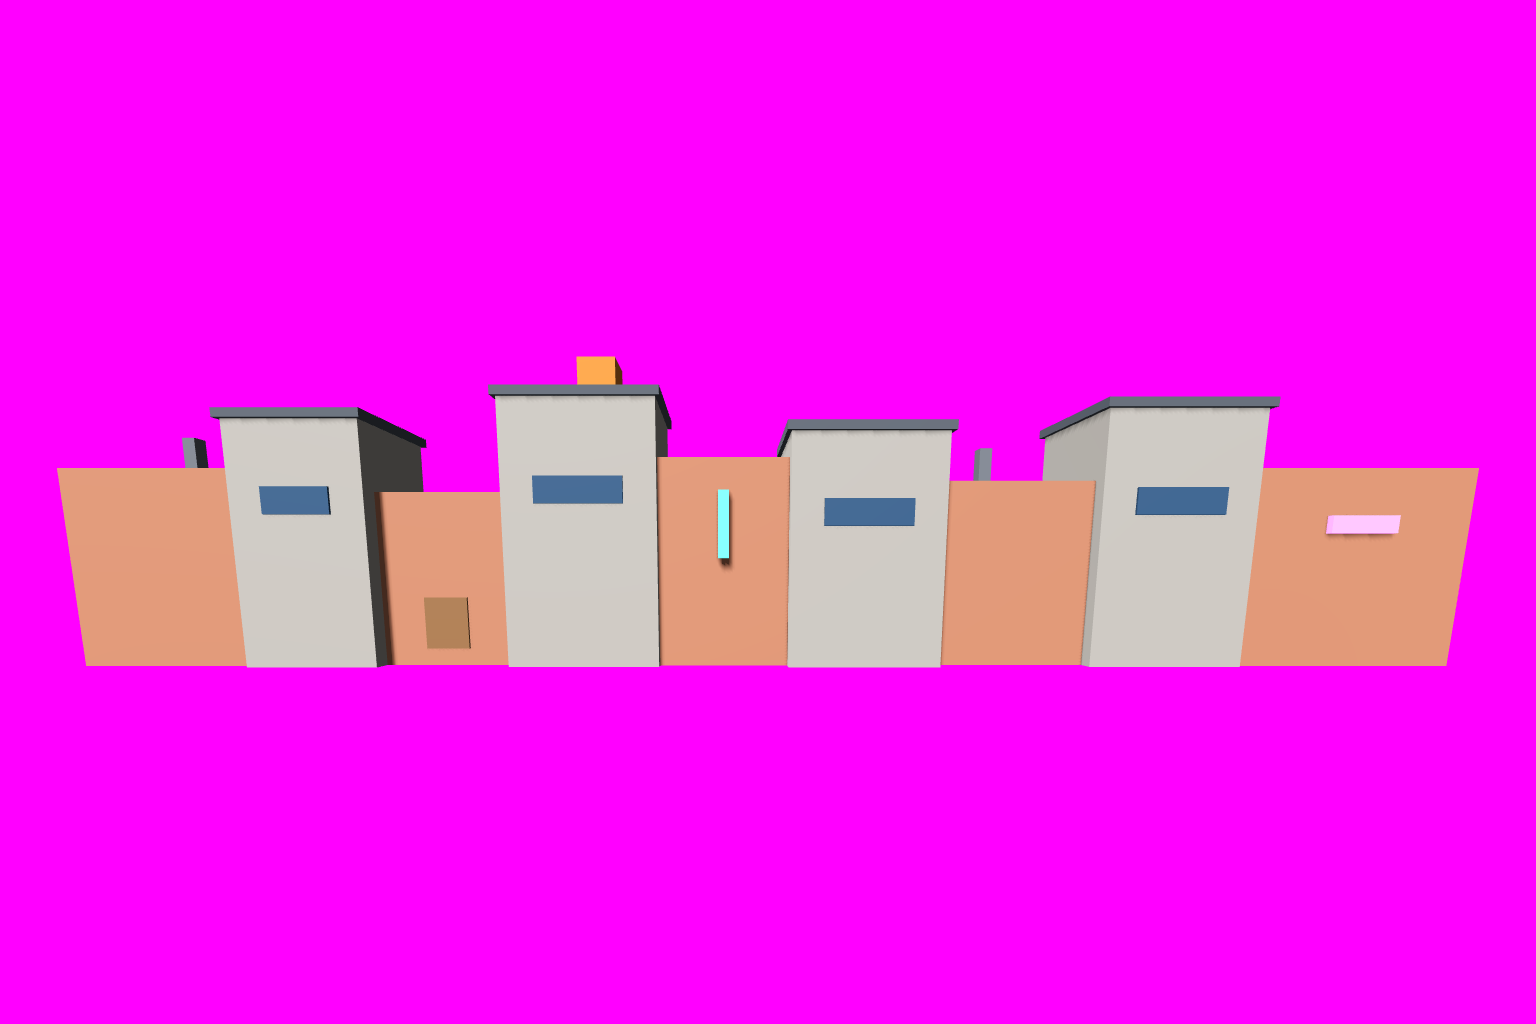
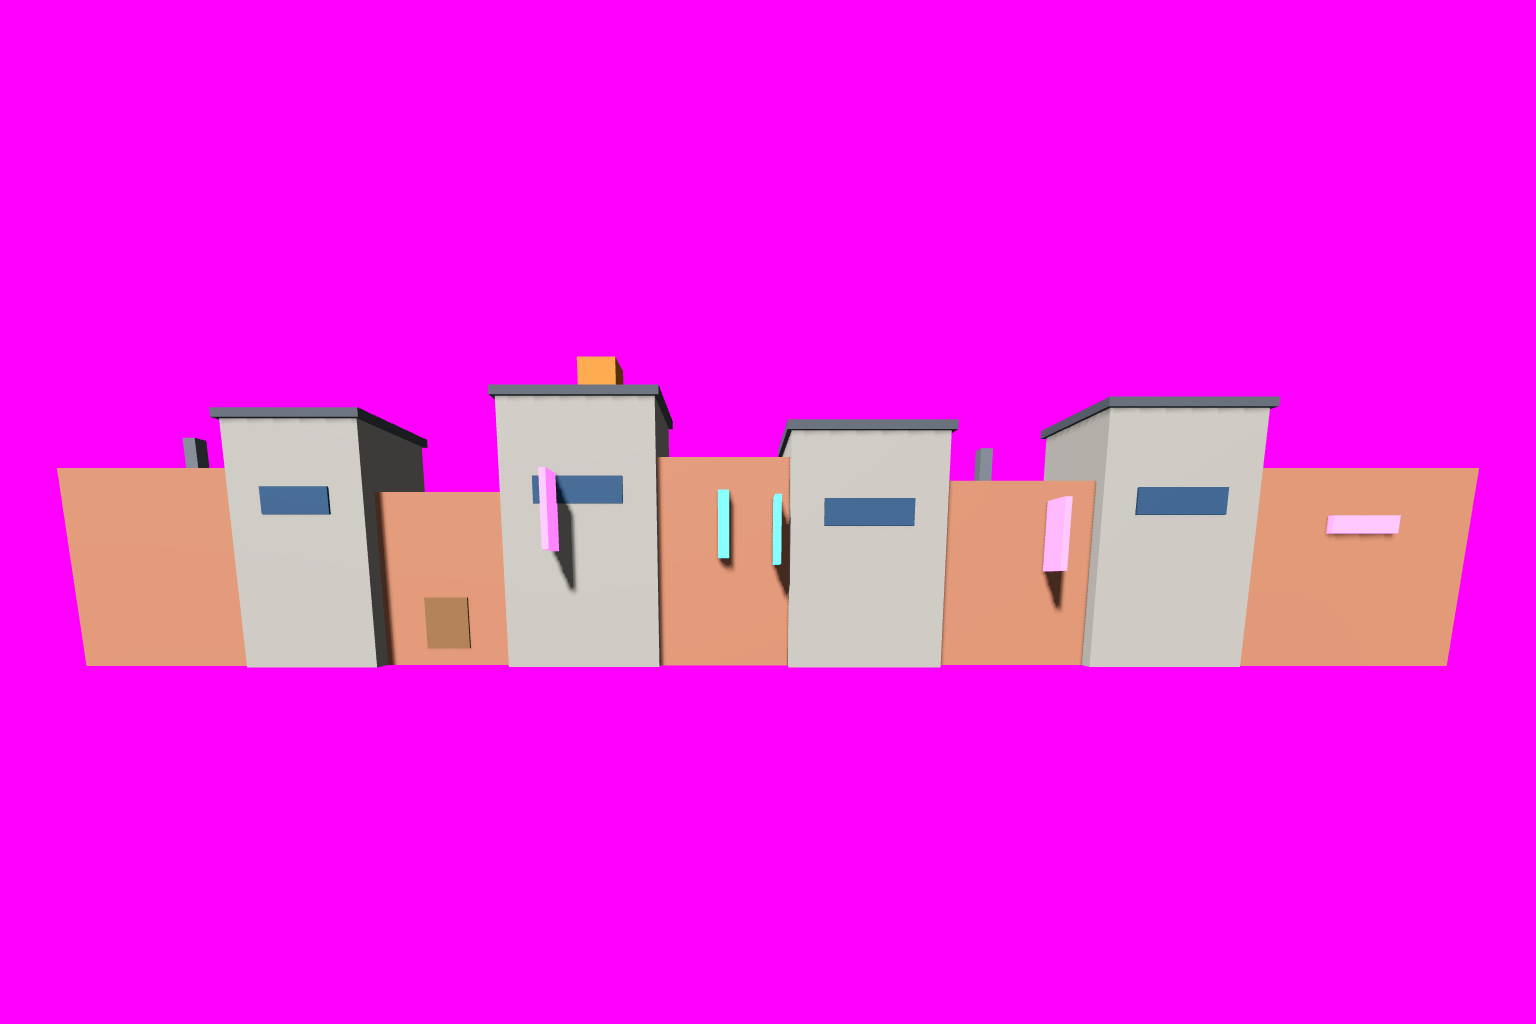
続編：b0_backrow を夜の歓楽街の裏通りとして発注し直し（突き出す縦の看板の箱3本、下絵を撮り直し、STYLE BASE を発注票の共通部分に）
Claude-Session: https://claude.ai/code/session_01U4ZkdGpEQEMDJoCjydzQGa

Changed region(s): [[0.6562, 0.4688, 0.7188, 0.5938], [0.4688, 0.4688, 0.5312, 0.5938], [0.3438, 0.4375, 0.375, 0.5938]]

diff --git a/sequel/HANDOFF.md b/sequel/HANDOFF.md
@@ -18,7 +18,7 @@
 - 地面（2026-11-05）：外部AIの素材2枚を `assets/ground/`（`cobble.png`＝車道の石畳 2.5m角、`slab.png`＝歩道の敷石 2m角）に入れ、`_build_floor` の単色の板を置き換えた（`_ground`、繰り返し・ミップマップ）。継ぎ目は端の8画素だけなじませた（中は元のまま。元絵は保存していない＝受け取りの添付が元）。明るさは `FLOOR_DIM`＝0.5（素材の色×0.5）。線路は真鍮色の細い線（幅6cm）。
   - 濡れた路面：`tools/make_glints.py` が、塗った建物の絵の明るく色のある塊（看板・灯り・窓）を拾い、下絵のカメラから建物の正面へ逆に投影して x・高さ・色を `assets/ground/glints.json` に出す（今は32本）。ゲームは `glint.gdshader`（加算）で、その色の筋を地面に寝かせて足す。筋は「光の真下 → カメラの足元」の線に沿う（本物の映り込みと同じ）ので画面ではほぼ縦になり、カメラが動くとずれる。石の目地は映りにくい。建物の絵を描き直したら `python3 -I sequel/tools/make_glints.py` を流し直す。
 - 足元と奥の地面（2026-11-05）：塗った絵の部品（箱への投影）は日光の影を落とさない（足元の黒い帯の対策）。代わりに地面に接する箱の前へ、薄い暗がりの板（`foot_shade.gdshader`、壁際から1.6mで薄れる）。奥の地面（z −6.5〜−62）は `far_ground.gdshader`：手前は暗く、奥ほど遠景の地平あたりの霧の色（#684c53）に溶ける。前の「奥の街」の暗い板（y −1）は無くした。
-- 裏通りの列 b0_backrow（2026-11-05、発注待ち）：建物の後ろ z≈−14 に、x −32〜32（iPhone の横長でカメラが端 ±12 まで動いても切れない幅＝計算で ±31.4。指示の目安 ±26 より広げた）・高さ8〜12mの9棟＋屋根・給水塔・煙突・窓・小さなネオン。kind="back"（映り込み・足元の暗がりの対象外）。下絵は `CAPTURE_GUIDE=b0_backrow` でこの部品だけ撮った（`CAPTURE_GUIDE=<id>` は他の下絵と guide.json の他の項目を変えない）。発注票：https://claude.ai/artifact/2miecLCGbkc5UWk13jTkSe （生成は `python3 -I sequel/tools/make_order.py <出力.html> --only b0_backrow --style <塗った key_full> --title 裏通りの列の発注票`。出力はアーティファクトの枠にそのまま公開できる形）。Web はまだ書き出していない（公開中の版に灰色の箱は出ていない）。
+- 裏通りの列 b0_backrow（2026-11-05、発注待ち。内容＝夜の歓楽街の裏通り。壁から突き出す縦の看板の箱3本を足して下絵を撮り直し済み。発注票の共通部分は `tools/style_base.txt`＝ユーザーの STYLE BASE、この区画だけ紫・マゼンタのネオンを強め。路地は壁の面の中に描かせ、高架は b4、紅く光る巨大な建物は後で遠景として別に扱う）：建物の後ろ z≈−14 に、x −32〜32（iPhone の横長でカメラが端 ±12 まで動いても切れない幅＝計算で ±31.4。指示の目安 ±26 より広げた）・高さ8〜12mの9棟＋屋根・給水塔・煙突・窓・小さなネオン。kind="back"（映り込み・足元の暗がりの対象外）。下絵は `CAPTURE_GUIDE=b0_backrow` でこの部品だけ撮った（`CAPTURE_GUIDE=<id>` は他の下絵と guide.json の他の項目を変えない）。発注票：https://claude.ai/artifact/2miecLCGbkc5UWk13jTkSe （生成は `python3 -I sequel/tools/make_order.py <出力.html> --only b0_backrow --style <塗った key_full> --base sequel/tools/style_base.txt --title 裏通りの列の発注票`。出力はアーティファクトの枠にそのまま公開できる形）。Web はまだ書き出していない（公開中の版に灰色の箱は出ていない）。
 - 遊べるURL：https://yyvape-dev.github.io/SA/sequel/web/
 
 ## 絵の方式（決定。ユーザー承認）：下絵を塗ってもらい、箱に投影する
